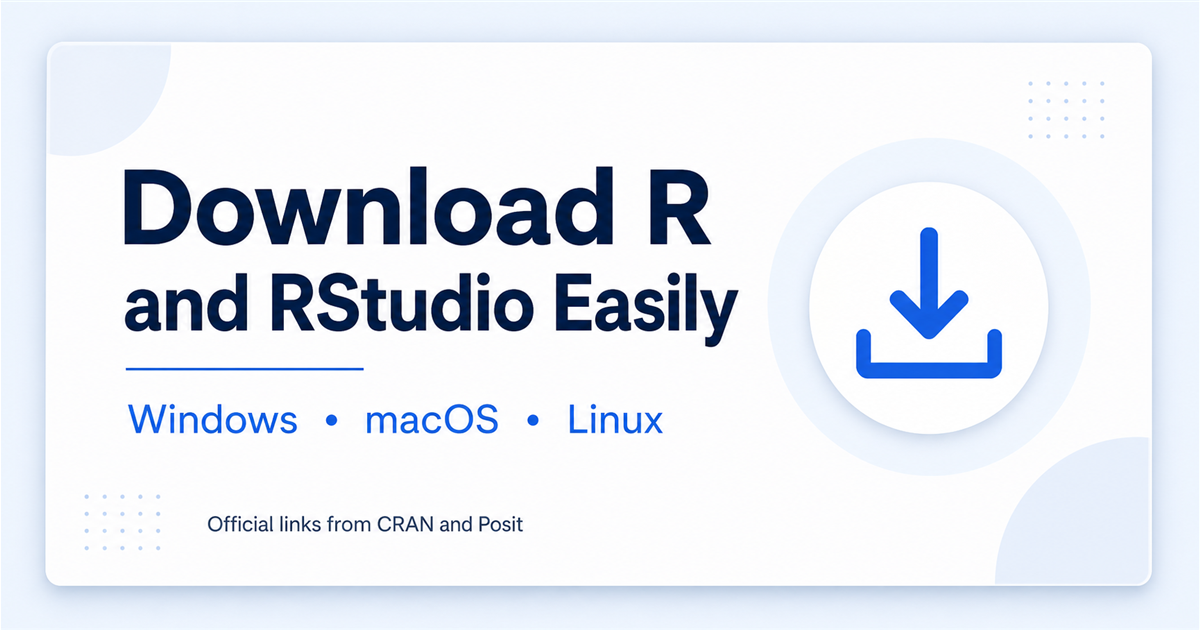
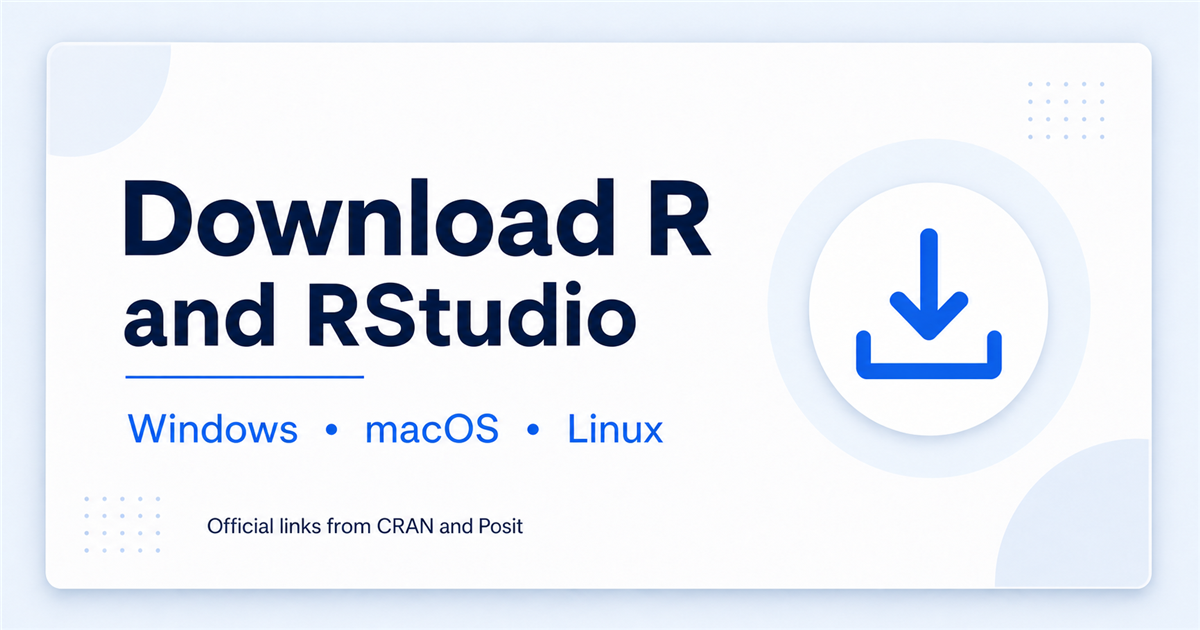
Clarify install order and social preview

diff --git a/index.html b/index.html
@@ -9,16 +9,16 @@
 
   <meta property="og:type" content="website">
   <meta property="og:url" content="https://bioszen.github.io/r-rstudio-download-guide/">
-  <meta property="og:title" content="Download R and RStudio Easily">
+  <meta property="og:title" content="Download R and RStudio">
   <meta property="og:description" content="Official download links for R and RStudio Desktop on Windows, macOS, and Linux.">
   <meta property="og:image" content="https://bioszen.github.io/r-rstudio-download-guide/og-preview.png">
   <meta property="og:image:type" content="image/png">
   <meta property="og:image:width" content="1200">
   <meta property="og:image:height" content="630">
-  <meta property="og:image:alt" content="Download R and RStudio Easily">
+  <meta property="og:image:alt" content="Download R and RStudio">
 
   <meta name="twitter:card" content="summary_large_image">
-  <meta name="twitter:title" content="Download R and RStudio Easily">
+  <meta name="twitter:title" content="Download R and RStudio">
   <meta name="twitter:description" content="Official download links for R and RStudio Desktop on Windows, macOS, and Linux.">
   <meta name="twitter:image" content="https://bioszen.github.io/r-rstudio-download-guide/og-preview.png">
   <title>Download R and RStudio | BIOSZEN</title>
@@ -139,7 +139,7 @@
 <body>
   <main class="container">
     <h1>Download R and RStudio</h1>
-    <p>Install R first, then install RStudio Desktop.</p>
+    <p><strong>Install in this order:</strong> first R, then RStudio Desktop.</p>
 
     <section aria-labelledby="download-r">
       <h2 id="download-r">1. R</h2>
